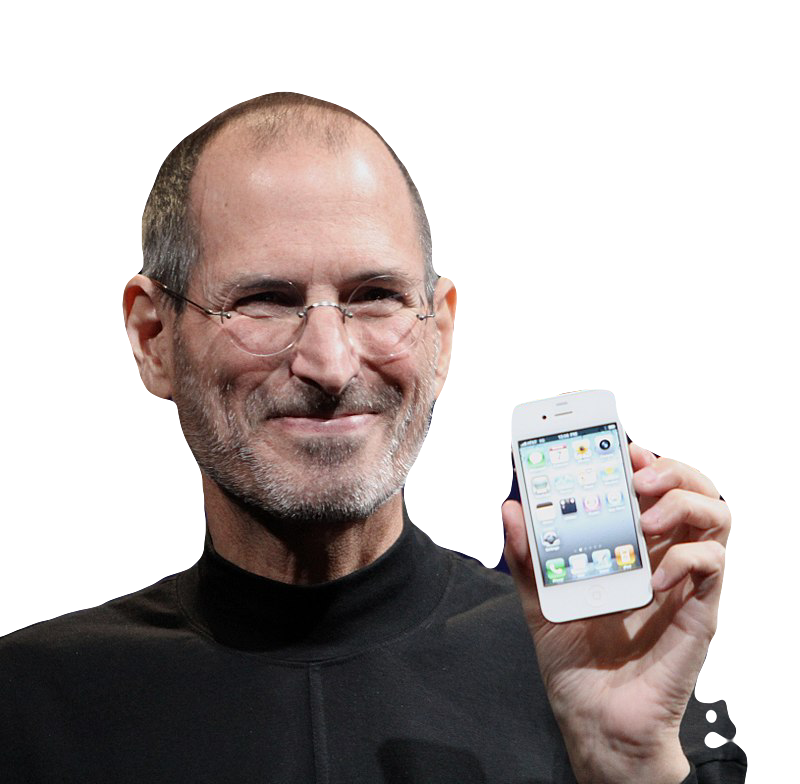
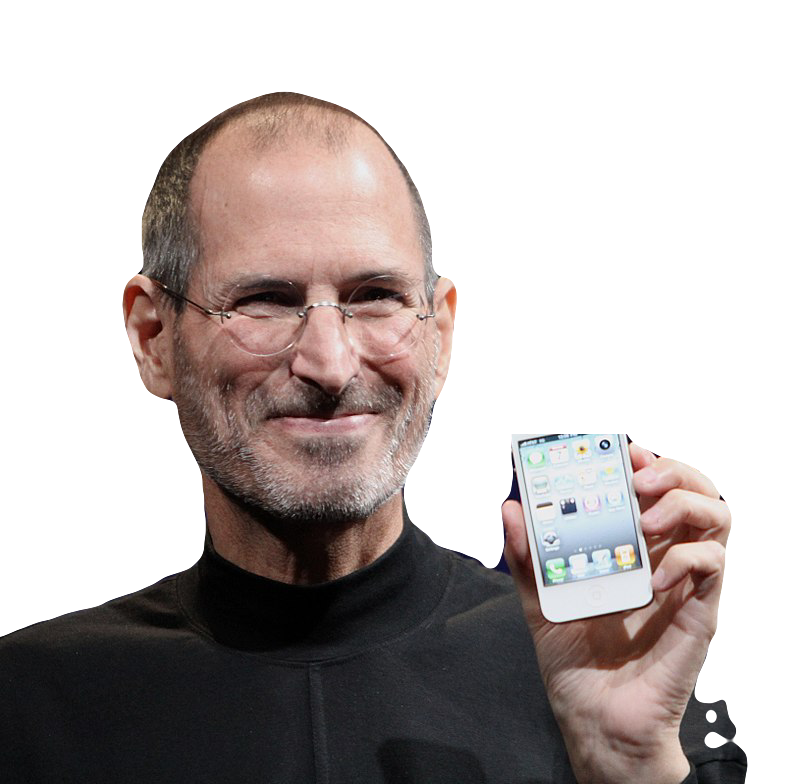
Add Cheese_jobs

Changed region(s): [[0.625, 0.4898, 0.7812, 0.551]]

diff --git a/css/style.css b/css/style.css
@@ -83,13 +83,19 @@ header{
 	object-fit: cover;
 }
 
-.fa-cheese {
-	color: #fff61a;
+.cheese_phone {
 	position: absolute;
-	top: 15%;
-	left: 40%;
-	width: 40%;
-	height: 40%;
+	top: 30%;
+	left: 57%;
+	width: 280px;
+	height: 280px;
+}
+
+.header_middle p{
+	position: absolute;
+	font-size: 30px;
+	top: 29%;
+	left: 66%;
 }
 
 
@@ -285,10 +291,10 @@ header{
 	width: 20%;
 	margin-bottom: 10px;
 	padding-left: 40px;
-	--animate-duration: 2s;
+	--animate-duration: 2.5s;
 }
 
-.
+
 
 /* about_slideshow */
 

diff --git a/index.html b/index.html
@@ -59,7 +59,8 @@
                     animate__delay-2s
             ">
             <img class="header_middle_jobs" src="./img/cheese_jobs.png" alt="">
-            <div class="cheesephone"><span class="fas fa-cheese"></span></div>
+            <p>Cheese Jobs</p>
+            <img src="./img/cheese_phone.png" class="cheese_phone">
         </div>
         <div class="header_middle_img"></div>
         <div class="header_bottom" >
